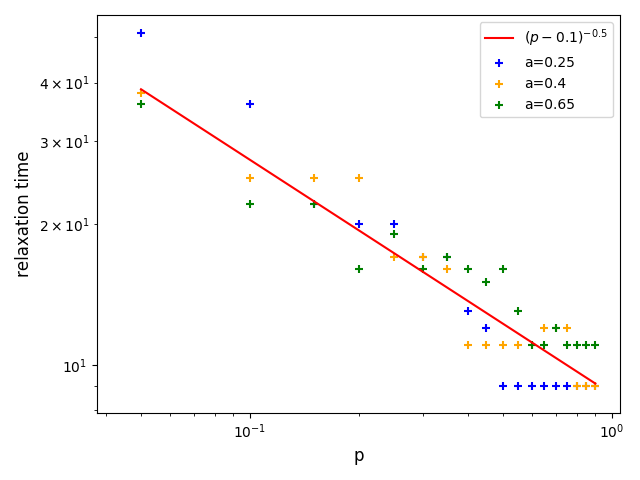
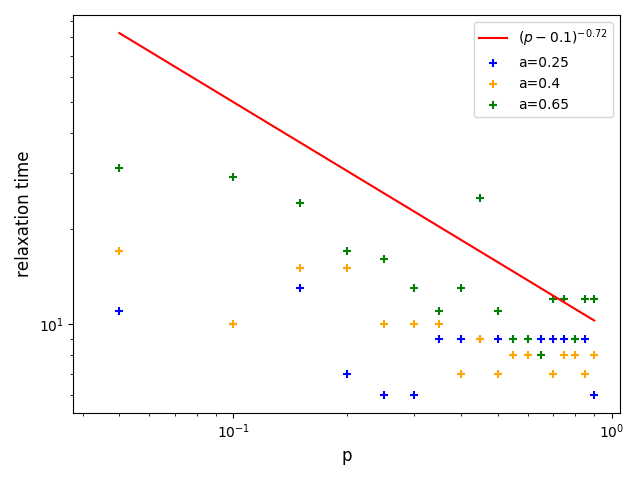
update fsmoothing graphs

diff --git a/analysis/grid_search.py b/analysis/grid_search.py
@@ -23,7 +23,7 @@ parser.add_argument(
 args = parser.parse_args()
 
 def get_path(p, a):
-    file_name = "{}_smoothing_symmetric_{:.2f}_{:.2f}_1000.0_1.json".format(args.dataset, p, 1 - a)
+    file_name = "{}_fsmoothing_symmetric_{:.2f}_{:.2f}_1000.0_5.json".format(args.dataset, p, 1 - a)
     return "{}/{}".format(data_dir, file_name)
 
 def get_data(p, a):
@@ -31,12 +31,10 @@ def get_data(p, a):
     data = json.load(open(path, 'r'))
     return data
 
-data_dir = "results/grid_search/{}/smoothing".format(args.dataset)
-plot_dir = "analysis/plots/grid_search/smoothing"
-# p_grid = [0.05 * i for i in range(3, 21)]
-# a_grid = [0.05 * i for i in range(3, 21)]
-p_grid = np.array([0.01 * i for i in range(11, 101)])
-a_grid = [0.01 * i for i in range(11, 101)]
+data_dir = "results/grid_search/{}/fsmoothing".format(args.dataset)
+plot_dir = "analysis/plots/grid_search/fsmoothing"
+p_grid = np.array([0.05 * i for i in range(3, 21)])
+a_grid = [0.05 * i for i in range(3, 21)]
 
 if (args.graph == "grid"):
     epoch = 100
@@ -70,8 +68,8 @@ if (args.graph == "heatmap"):
     scatter_data = [[], []]
     for a in reversed(a_grid):
         data.append([get_data(p, a)[args.y][epoch - 1] for p in p_grid])
-        scatter_data[0].append(a - 0.005)
-        scatter_data[1].append(p_grid[np.argmax(data[-1])] - 0.005)
+        scatter_data[0].append(a - 0.025)
+        scatter_data[1].append(p_grid[np.argmax(data[-1])] - 0.025)
     data = np.array(data)[::-1,::-1].T
     plt.scatter(scatter_data[0], scatter_data[1], marker="+", color="red")
     plt.imshow(data, cmap='viridis', extent=[0.1, 1.0, 0.1, 1.0], vmin=0, vmax=100)
@@ -116,21 +114,21 @@ if (args.graph == 'relaxation'):
     largest = 0
     all_x = []
     all_y = []
-    for a in clean_rates:
+    for a in a_grid:
         data[a] = [np.argmax(np.array(get_data(p, a)['test_acc'])) for p in p_grid]
         all_x += list(np.log(p_grid - 0.1))
         all_y += list(np.log(data[a]))
         largest = max(largest, max(data[a]))
     for a in clean_rates:
         # data[a] = 10 * np.array(data[a]) / largest
-        plt.scatter(p_grid - 0.1, data[a], marker="+", color=colormap[a], label=r'a={}'.format(a), s=0.001)
+        plt.scatter(p_grid - 0.1, data[a], marker="+", color=colormap[a], label=r'a={}'.format(a))
     
     regr = linear_model.LinearRegression()
     all_x = [[x] for x in all_x]
     regr.fit(all_x, all_y)
     print('Coefficients: {}, {}'.format(regr.coef_, regr.intercept_))
-    regr.coef_ = np.array([-0.5])
-    plt.plot(p_grid - 0.1, np.exp(regr.predict(np.log(p_grid - 0.1).reshape(-1, 1))), label=r'$(p - 0.1)^{-0.5}$', color="red")
+    regr.coef_ = np.array([-0.72])
+    plt.plot(p_grid - 0.1, np.exp(regr.predict(np.log(p_grid - 0.1).reshape(-1, 1))), label=r'$(p - 0.1)^{-0.72}$', color="red")
     
     plt.legend()
     plt.xlabel("p", fontsize=12)
